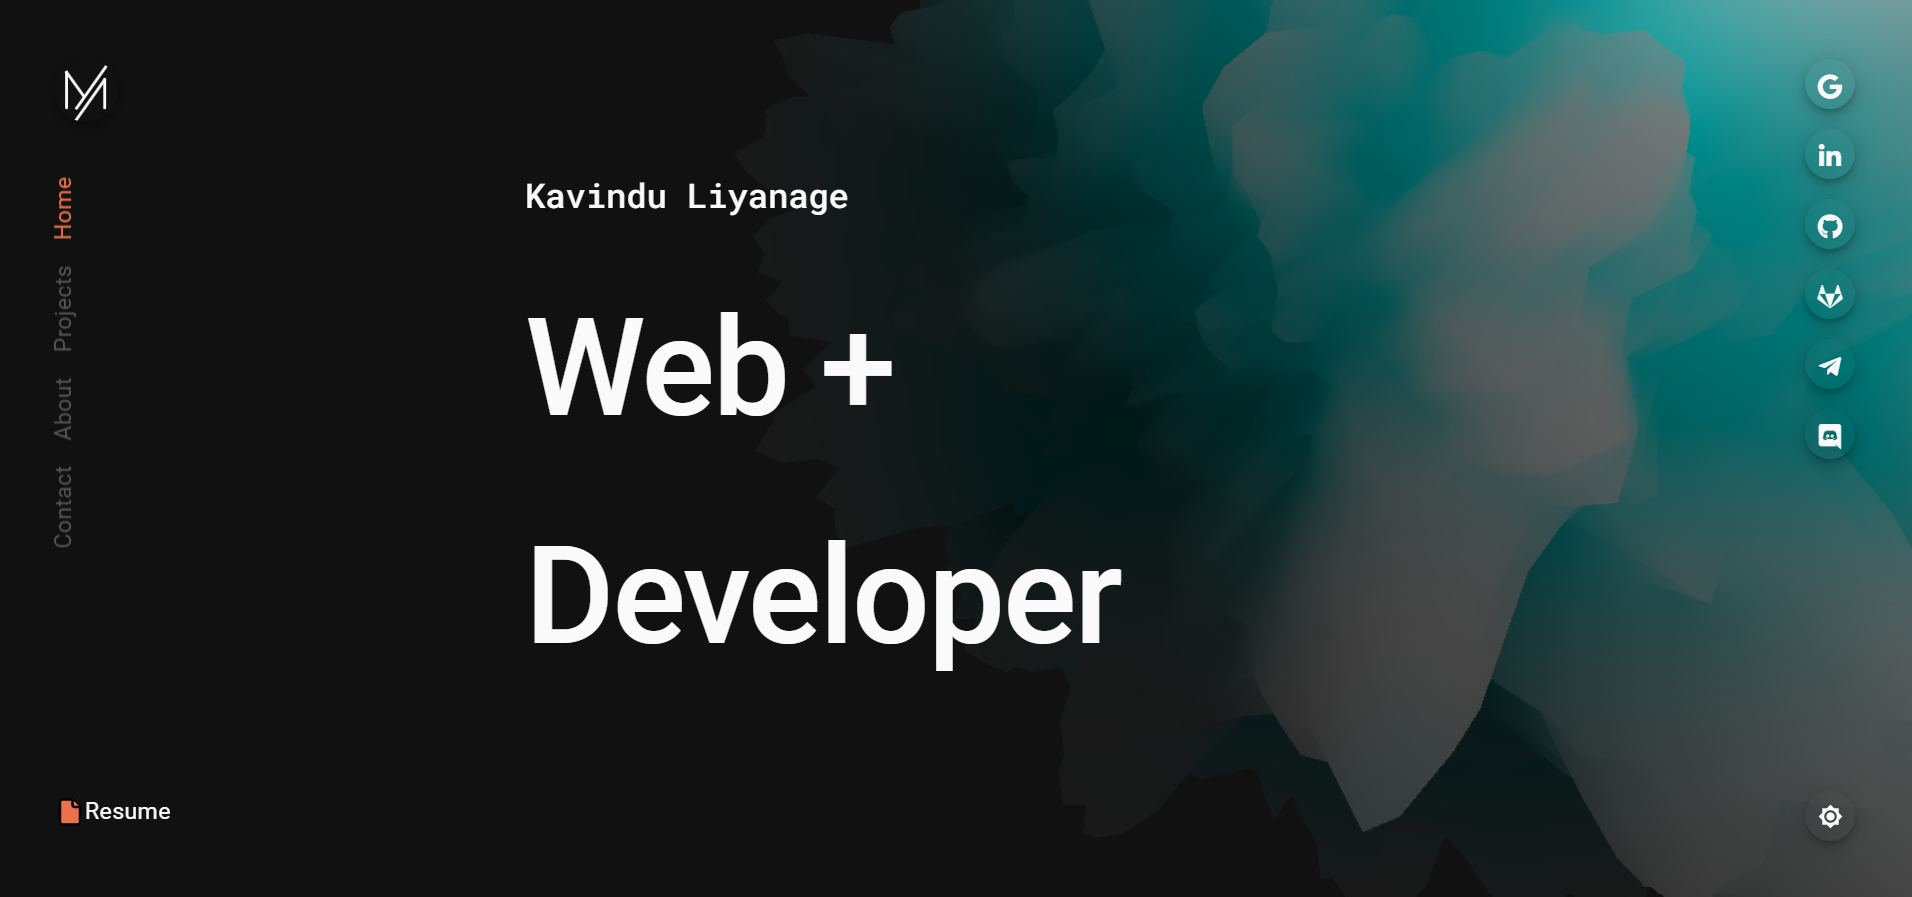
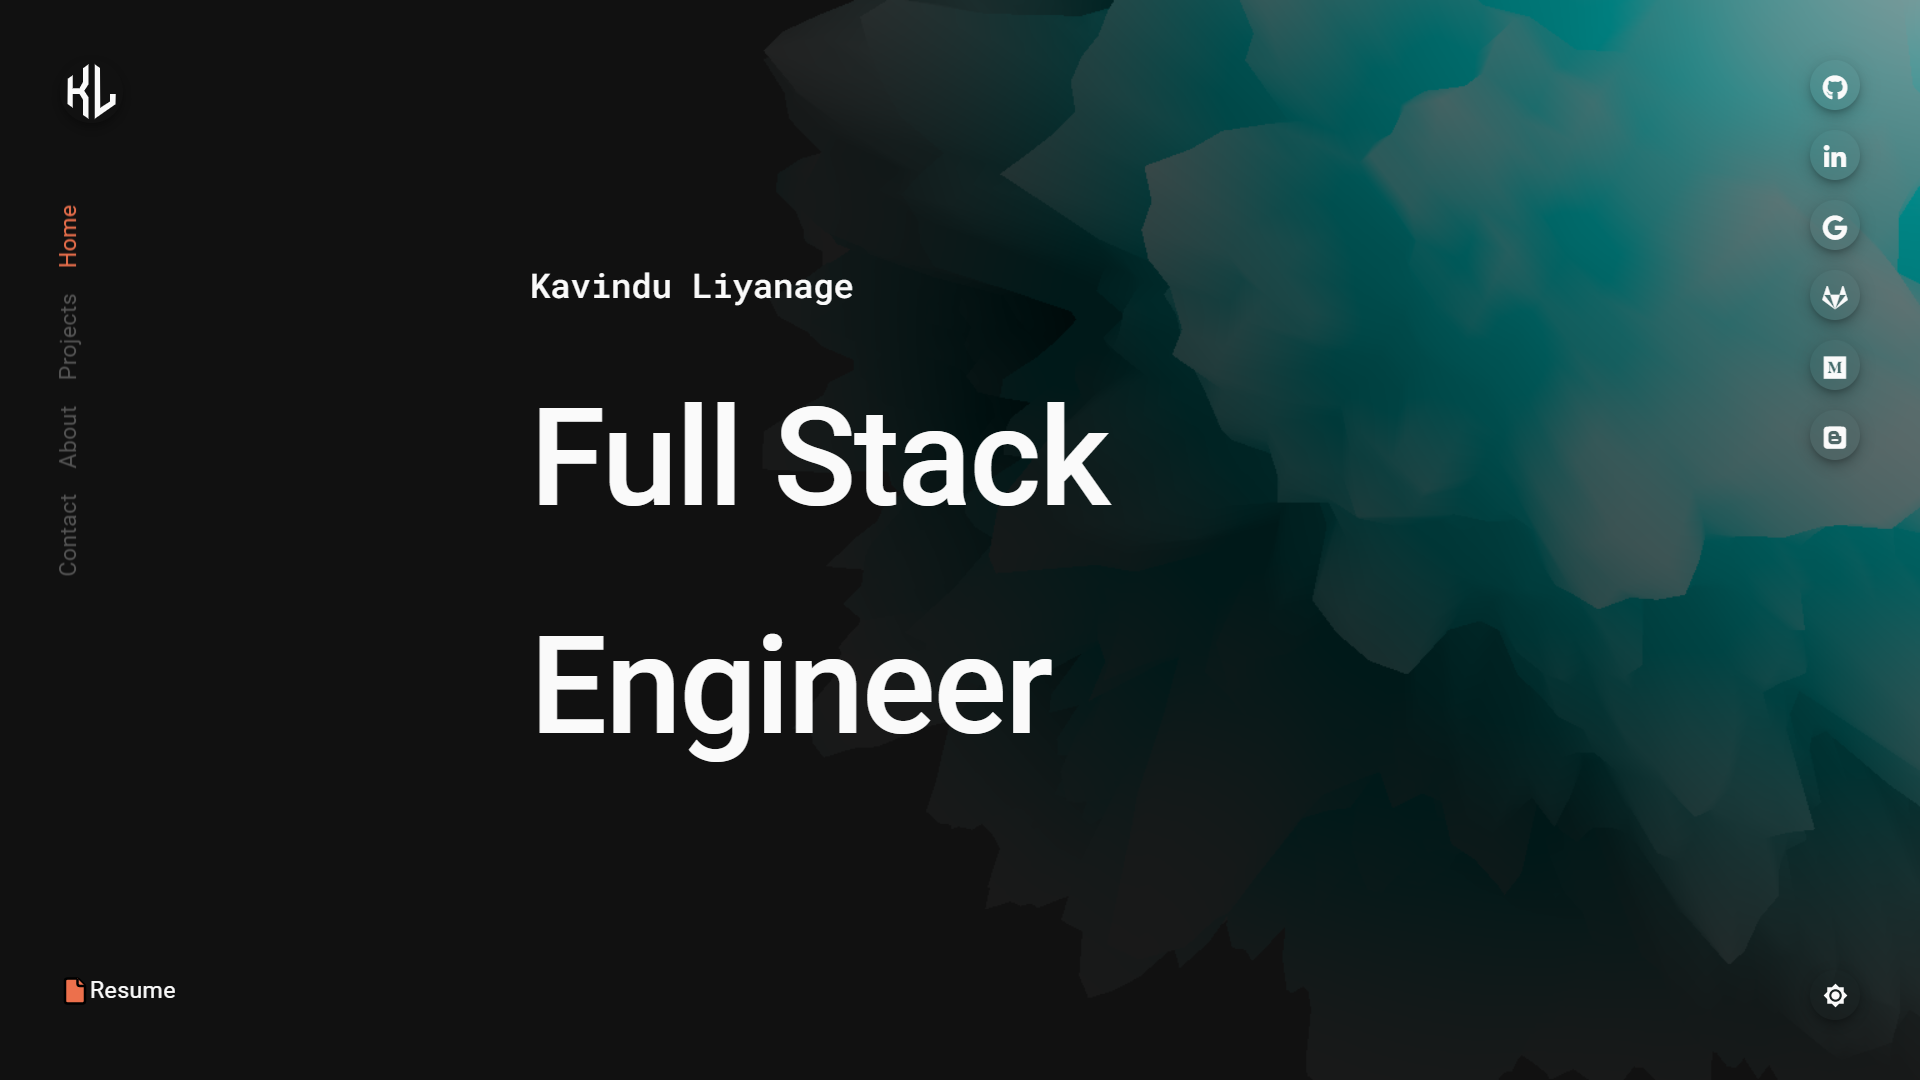
Changed social image

diff --git a/public/index.html b/public/index.html
@@ -40,7 +40,7 @@
         <meta name="author" content="Kavindu Liyanage" />
         <meta
             name="description"
-            content="Greetings, I'm Kavindu Liyanage, a Web Developer based from the Sri lanka. I love all things technical. Talk soon!"
+            content="Greetings, I'm Kavindu Liyanage, a Full Stack Engineer from the Sri lanka. I love all things technical. Talk soon!"
         />
         <meta
             name="keywords"
@@ -52,11 +52,11 @@
         <meta property="og:image:height" content="600" />
 
         <meta property="og:title" content="Kavindu Liyanage | Sri lanka" />
-        <meta property="og:site_name" content="mctan.dev" />
+        <meta property="og:site_name" content="kavindus.com" />
         <meta property="og:url" content="https://" />
         <meta
             property="og:description"
-            content="Greetings, I'm Kavindu Liyanage, a Web Developer based from the Sri lanka. I love all things technical. Talk soon!"
+            content="Greetings, I'm Kavindu Liyanage, a Full Stack Engineer from the Sri lanka. I love all things technical. Talk soon!"
         />
         <link
             rel="stylesheet"

diff --git a/src/components/works/Works.js b/src/components/works/Works.js
@@ -34,7 +34,7 @@ export const Works = () => {
     {
       id: 2,
       title: 'Homaze Web App',
-      description: `Homaze helps remodelers & renovation experts create estimates in minutes on-site, turn those estimates into professional-grade proposals, and share them with their clients. Remodelers can then manage all client communication in one place to ensure all i's are dotted and t's are crossed. Homaze uses technology that turns the tedious remodeling officework process into an easy-to-use tool.`,
+      description: `Homaze helps remodelers & renovation experts create estimates in minutes on-site, turn those estimates into professional-grade proposals, and share them with their clients. Remodelers can then manage all client communication in one place to ensure all i's are dotted and t's are crossed. Homaze uses technology that turns the tedious remodeling office work process into an easy-to-use tool.`,
       technologies: `React with Typescript, Redux, Redux-saga, Material UI, NodeJS, ExpressJS, MongoDB, AWS EC2, S3, Formik`,
       alter: 'Startup Project',
       image: `${Homaze}`,

diff --git a/src/app/HelmetMeta.js b/src/app/HelmetMeta.js
@@ -7,7 +7,7 @@ export const HelmetMeta = () => {
     return (
         <Helmet>
             <meta name="theme-color" content={Settings.colors.primary} />
-            <title>{Resume.basics.name} | {Resume.basics.location.city}, {Resume.basics.location.country}</title>
+            <title>{Resume.basics.name} | {Resume.basics.location.country}</title>
             <meta name="author" content={Resume.basics.name} />
             <meta name="description" content={Resume.basics.description} />
             <meta name="keywords" content={Resume.basics.keywords} />
